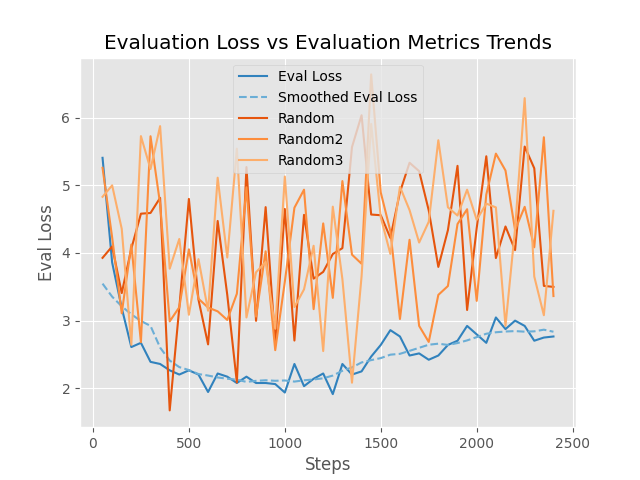
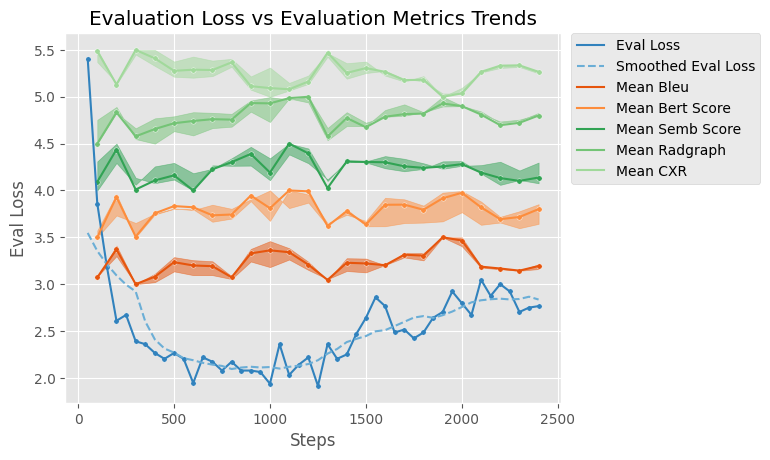
Update plot

diff --git a/plots/plot_magma_results.py b/plots/plot_magma_results.py
@@ -5,68 +5,88 @@ import numpy as np
 from bokeh.palettes import Category20c
 from matplotlib import style
 
+def scale_array(df, x, y):
+    min_val = df.min()
+    max_val = df.max()
+    scaled_df = ((y - x) * (df - min_val) / (max_val - min_val)) + x
+    return scaled_df
+
 style.use('ggplot')
 my_palette = Category20c[20]
 
-with open('eval_vibrant_mountain.csv', newline='') as csvfile:
-    reader = csv.DictReader(csvfile)
-    eval_losses = []
-    steps = []
-    for row in reader:
-        eval_losses.append(float(row['vibrant-mountain-58 - eval/loss']))
-        steps.append(int(row['Step']))
-        
-        
-    # Draw from a normal distribution to create vector lenth of eval_losses
-    some_random = np.random.normal(size=len(eval_losses))
-    # Add an offset to the random vector
-    some_random = some_random + 4
-    
-    some_random2 = np.random.normal(size=len(eval_losses)) + 4
-    some_random3 = np.random.normal(size=len(eval_losses)) + 4
+eval = pd.read_csv('eval_vibrant_mountain.csv')
+metrics = pdf   = pd.read_csv('metrics.csv')
+ 
+eval_loss = eval['vibrant-mountain-58 - eval/loss']
+eval_color = my_palette[0]        
+plot = sns.lineplot(
+    x=eval['Step'], 
+    y=eval_loss, 
+    color=eval_color,
+    label='Eval Loss'
+    )
 
+# Add dots for each data point
+sns.scatterplot(
+    x=eval['Step'],
+    y=eval_loss,
+    color=eval_color,
+    s=15
+)
+
+smoothed_data = pd.Series(eval['vibrant-mountain-58 - eval/loss']).rolling(10, min_periods=1, center=True).mean()
+smooth_color = my_palette[1]
+plot = sns.lineplot(
+    x=eval['Step'],
+    y=smoothed_data, 
+    linestyle='dashed', 
+    color=smooth_color, 
+    label='Smoothed Eval Loss'
+)
+
+metrics_labels = ['mean_bleu', 'mean_bertscore', 'mean_sembscore', 'mean_radgraphcombined', 'mean_cxrmetric']
+metrics_std_labels = ['std_bleu', 'std_bertscore', 'std_sembscore', 'std_radgraphcombined', 'std_cxrmetric']
+metrics_colors = [my_palette[4], my_palette[5], my_palette[8], my_palette[9], my_palette[10]]
+metrics_scales = [3, 3.5, 4, 4.5, 5, 5.5]
+metrics_labels_legend = ['Mean Bleu', 'Mean Bert Score', 'Mean Semb Score', 'Mean Radgraph', 'Mean CXR']
+
+for i, metric_label in enumerate(metrics_labels):
     plot = sns.lineplot(
-        x=steps, 
-        y=eval_losses, 
-        color=my_palette[0],
-        label='Eval Loss'
-        )
-    plot = sns.lineplot(
-        x=steps, 
-        y=pd.Series(eval_losses).rolling(10, min_periods=1, center=True).mean(), linestyle='dashed', 
-        color=my_palette[1], 
-        label='Smoothed Eval Loss'
+        x=metrics['step'],
+        y=scale_array(metrics[metric_label], metrics_scales[i], metrics_scales[i+1]),
+        color=metrics_colors[i],
+        label=metrics_labels_legend[i]
     )
     
-    plot = sns.lineplot(
-        x=steps, 
-        y=some_random, 
-        color=my_palette[4], 
-        label='Random')
-    
-    plot = sns.lineplot(
-        x=steps,
-        y=some_random2,
-        color = my_palette[5],
-        label = 'Random2'
+    plot.fill_between(
+        metrics['step'],
+        scale_array(metrics[metric_label] - metrics[metrics_std_labels[i]], metrics_scales[i], metrics_scales[i+1]),
+        scale_array(metrics[metric_label] + metrics[metrics_std_labels[i]], metrics_scales[i], metrics_scales[i+1]),
+        alpha=0.5,
+        color=metrics_colors[i]
     )
     
-    plot = sns.lineplot(
-        x=steps,
-        y=some_random3,
-        color = my_palette[6],
-        label = 'Random3'
+    # Add dots for each data point
+    sns.scatterplot(
+        x=metrics['step'],
+        y=scale_array(metrics[metric_label], metrics_scales[i], metrics_scales[i+1]),
+        color=metrics_colors[i],
+        s=15
     )
-    
-    # X-label
-    plot.set_xlabel('Steps')
-    # Y-label
-    plot.set_ylabel('Eval Loss')
-    
-    # Title
-    plot.set_title('Evaluation Loss vs Evaluation Metrics Trends')
-    
-            
-    # show plot
-    plot.figure.savefig('eval_vibrant_mountain.png')
+
+# Move the legend box to the right outside of the plot
+plot.legend(bbox_to_anchor=(1.02, 1), loc='upper left', borderaxespad=0.)
+
+
+# X-label
+plot.set_xlabel('Steps')
+# Y-label
+plot.set_ylabel('Eval Loss')
+
+# Title
+plot.set_title('Evaluation Loss vs Evaluation Metrics Trends')
+
+        
+# show plot
+plot.figure.savefig('eval_vibrant_mountain.png', bbox_inches='tight')
 
